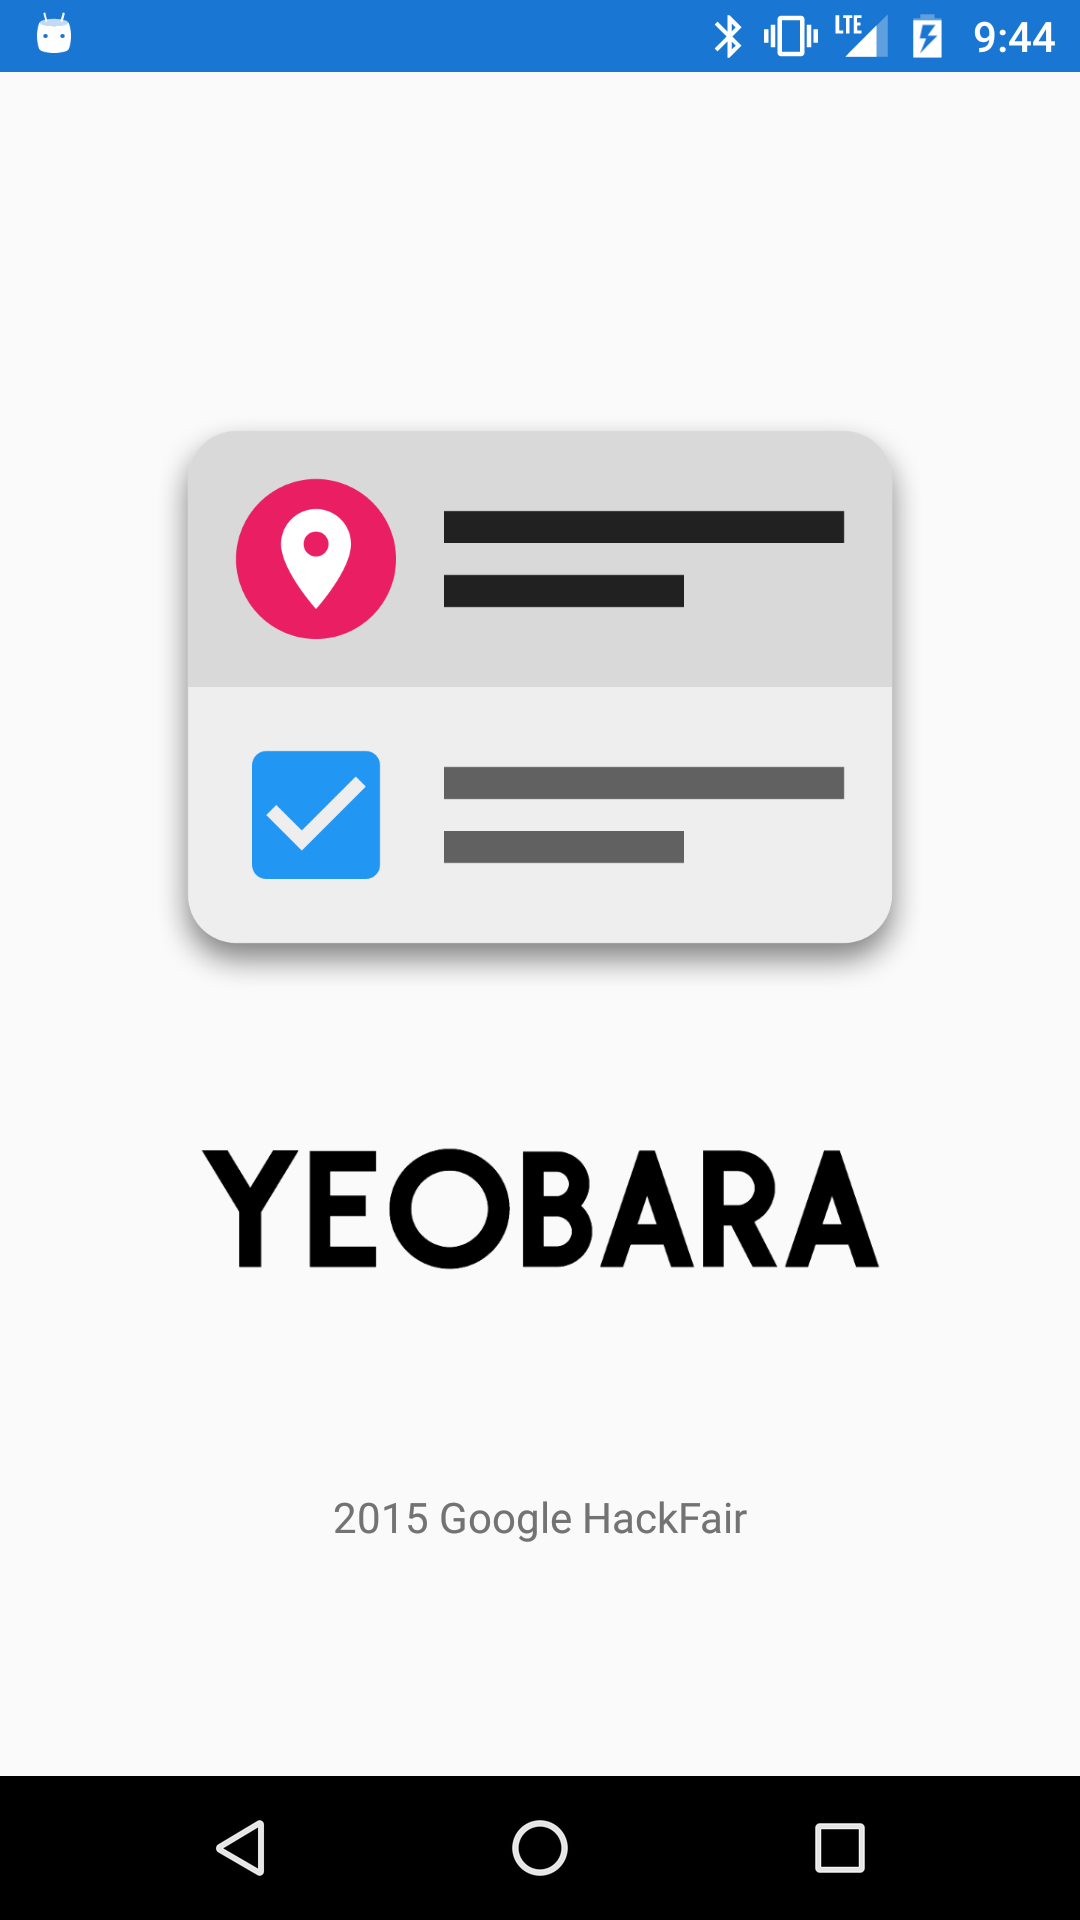
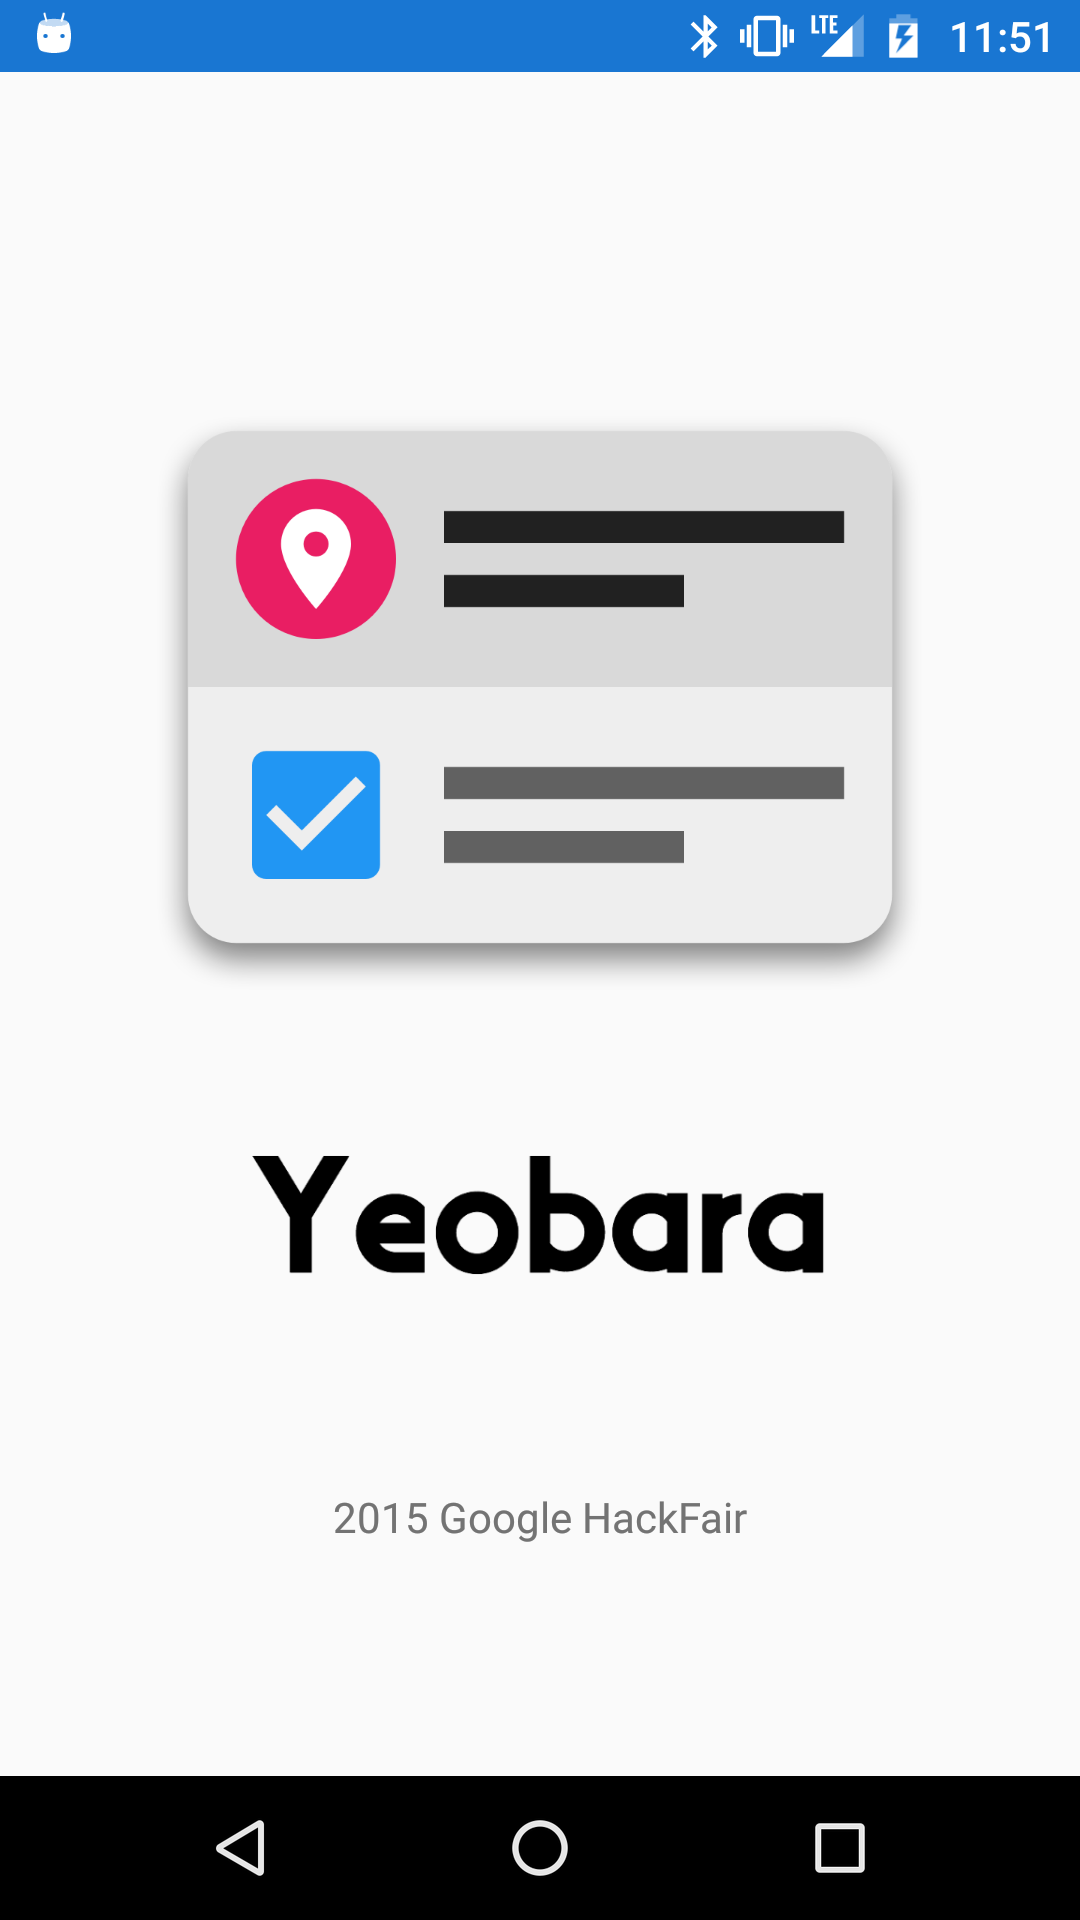
:arrow_up: 0.6.1
- update images

Changed region(s): [[0.1833, 0.5938, 0.825, 0.6875], [0.6417, 0.0, 0.9778, 0.0312]]

diff --git a/readme.md b/readme.md
@@ -26,7 +26,7 @@ MIT © [yeobara](https://github.com/yeobara)
 
 
 
-[feature]: https://cloud.githubusercontent.com/assets/1744446/11337279/1fdef1bc-922f-11e5-8979-f1d0e267a05d.png
+[feature]: https://cloud.githubusercontent.com/assets/1744446/11339520/375ea73e-923d-11e5-97d6-e34bb21ffbc8.png
 [ble]: http://developer.android.com/guide/topics/connectivity/bluetooth-le.html
 [ScanFilter]: http://developer.android.com/reference/android/bluetooth/le/ScanFilter.html
 [Eddystone]: https://github.com/google/eddystone
